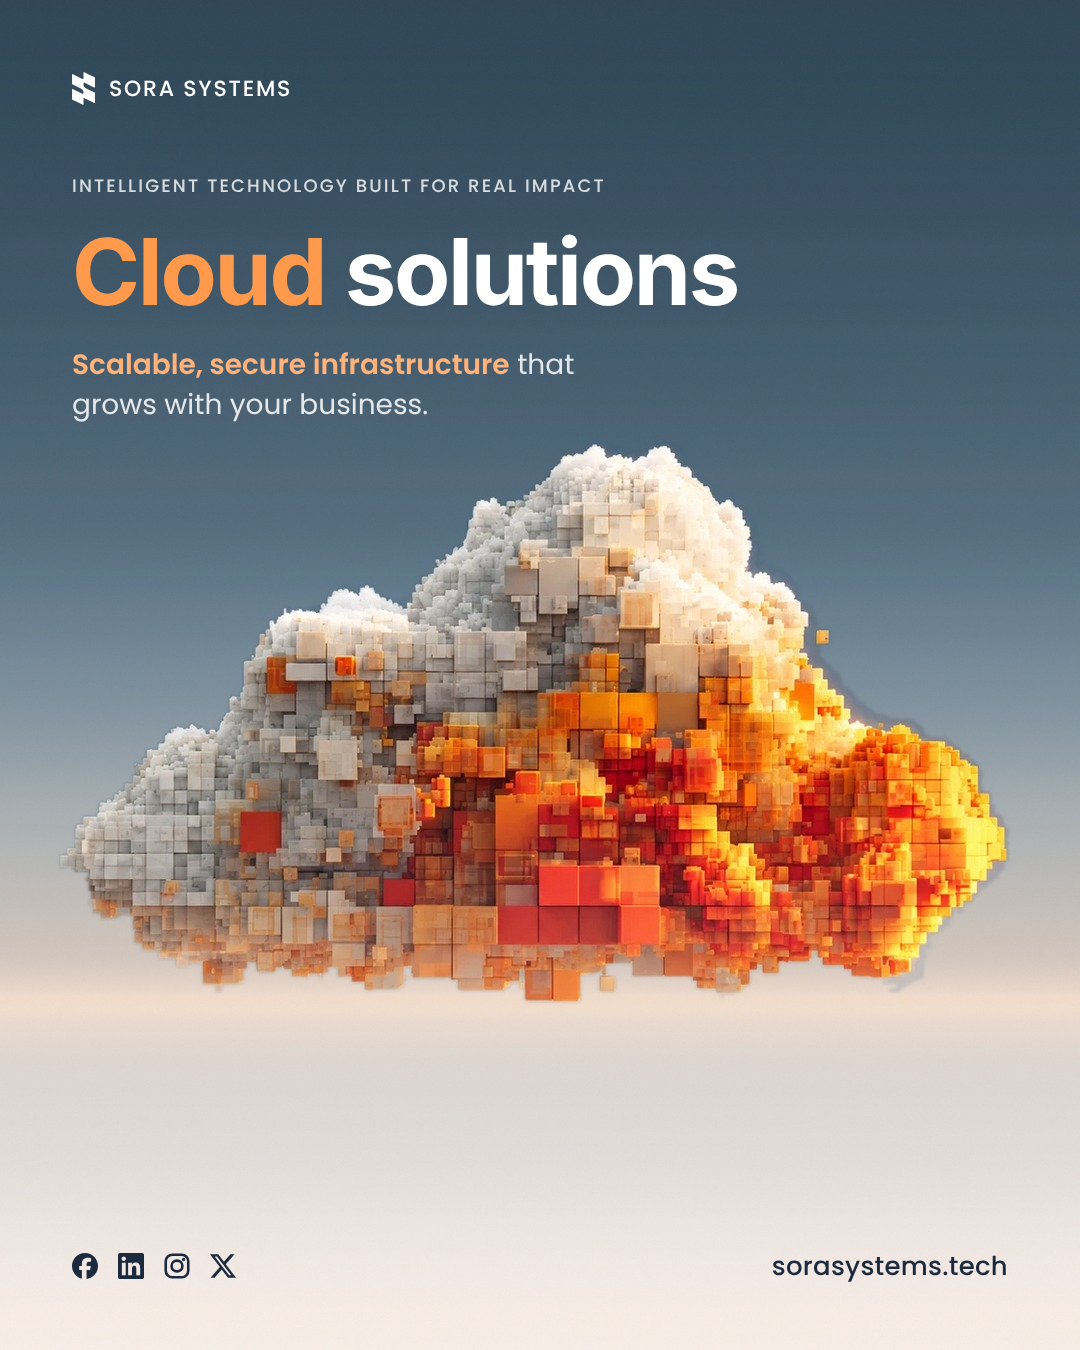
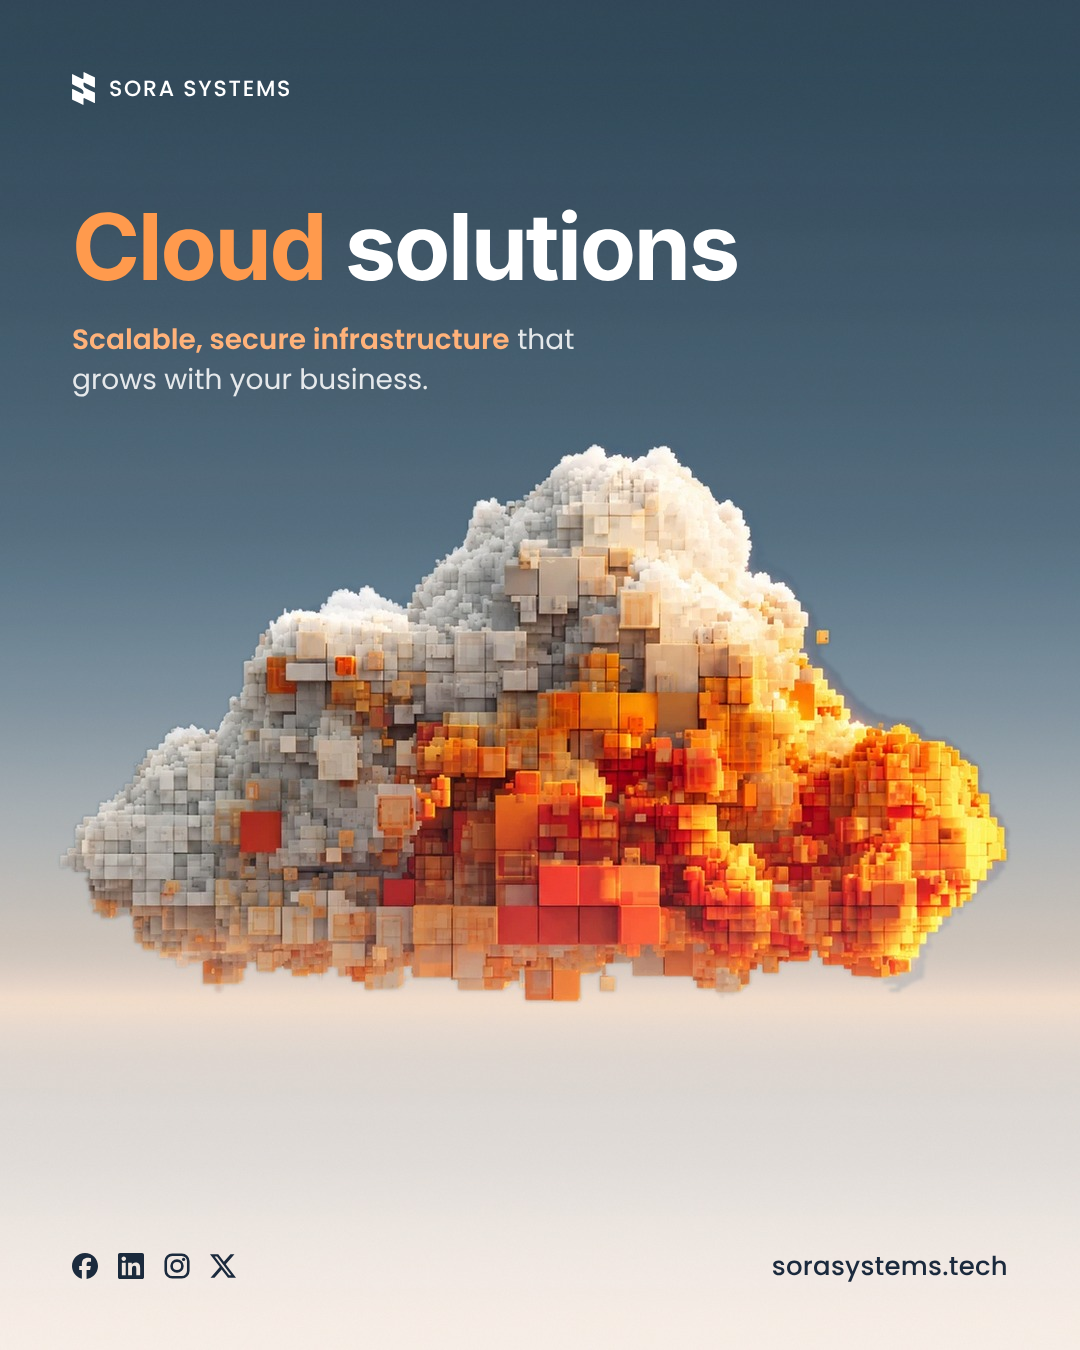
Cloud Solutions v2: remove eyebrow line
Claude-Session: https://claude.ai/code/session_018LrWno3rUgkkNcDC2TDXLt

Changed region(s): [[0.0611, 0.1244, 0.7028, 0.3111]]

diff --git a/designs/cloud-solutions-v2/sora-cloud-solutions-v2.html b/designs/cloud-solutions-v2/sora-cloud-solutions-v2.html
@@ -9,7 +9,7 @@
   .brand{position:absolute;left:72px;top:72px;display:flex;align-items:center;gap:14px}
   .brand svg{width:23px;height:33px;display:block}
   .brand span{font-family:"Poppins",sans-serif;font-weight:500;font-size:22px;letter-spacing:0.08em;color:#fff}
-  .copy{position:absolute;left:72px;top:172px;display:flex;flex-direction:column;gap:26px}
+  .copy{position:absolute;left:72px;top:200px;display:flex;flex-direction:column;gap:26px}
   .eyebrow{margin:0;font-family:"Poppins",sans-serif;font-weight:500;font-size:18px;letter-spacing:0.12em;color:rgba(255,255,255,0.8)}
   .headline{width:780px;margin:0;font-family:"Helvetica Neue",Helvetica,Arial,sans-serif;font-weight:700;font-size:92px;line-height:1.02;letter-spacing:-0.025em;color:#fff}
   .accent{color:#FF9A4D}
@@ -23,7 +23,6 @@
 <div class="post" id="sora-cloud-solutions-v2-post">
   <div class="brand"><svg viewBox="265.090 145.520 547.273 788.961" xmlns="http://www.w3.org/2000/svg"><path fill="#FFFFFF" d="M 812.363281 283.472656 L 812.363281 508.15625 C 812.363281 516.351562 803.769531 521.722656 796.410156 518.078125 L 681.371094 461.1875 L 675.542969 458.308594 L 562.761719 402.519531 C 562.753906 402.515625 562.746094 402.515625 562.738281 402.515625 C 562.730469 402.515625 562.71875 402.511719 562.710938 402.503906 C 561.292969 401.417969 559.660156 400.601562 557.917969 400.132812 C 557.910156 400.132812 557.902344 400.132812 557.894531 400.132812 C 557.886719 400.132812 557.875 400.128906 557.867188 400.128906 C 556.558594 399.71875 555.195312 399.527344 553.777344 399.527344 C 545.457031 399.527344 538.726562 406.269531 538.726562 414.601562 L 538.726562 443.640625 C 538.726562 481.675781 560.304688 516.417969 594.398438 533.277344 L 675.542969 573.40625 L 725.703125 598.207031 L 806.207031 638.027344 C 809.980469 639.890625 812.363281 643.726562 812.363281 647.945312 L 812.363281 878.113281 C 812.363281 886.304688 803.769531 891.675781 796.410156 888.03125 L 761.738281 870.878906 L 675.542969 828.265625 L 562.761719 772.476562 C 562.753906 772.472656 562.746094 772.46875 562.738281 772.46875 C 562.726562 772.46875 562.71875 772.46875 562.710938 772.464844 L 557.921875 770.09375 C 557.914062 770.089844 557.902344 770.085938 557.890625 770.085938 C 557.882812 770.085938 557.875 770.085938 557.871094 770.082031 C 556.558594 769.671875 555.195312 769.484375 553.777344 769.484375 C 545.457031 769.484375 538.726562 776.222656 538.726562 784.554688 L 538.726562 920.917969 C 538.726562 929.109375 530.132812 934.480469 522.773438 930.835938 L 401.972656 871.101562 C 401.933594 871.082031 401.90625 871.039062 401.90625 870.996094 C 401.90625 870.929688 401.855469 870.878906 401.789062 870.878906 L 401.621094 870.878906 C 401.574219 870.878906 401.53125 870.867188 401.492188 870.847656 L 271.246094 806.449219 C 267.46875 804.585938 265.089844 800.75 265.089844 796.53125 L 265.089844 560.882812 C 265.089844 552.691406 273.679688 547.320312 281.042969 550.964844 L 376.597656 598.207031 L 401.90625 610.730469 L 509.691406 664.03125 L 523.207031 670.71875 C 523.355469 670.789062 523.515625 670.828125 523.675781 670.828125 C 535.410156 670.828125 538.726562 656.273438 538.726562 644.539062 L 538.726562 633.625 C 538.726562 595.585938 517.148438 560.84375 483.054688 543.984375 L 401.90625 503.855469 L 315.65625 461.1875 L 271.246094 439.238281 C 267.46875 437.375 265.089844 433.535156 265.089844 429.316406 L 265.089844 207.371094 C 265.089844 199.179688 273.679688 193.808594 281.042969 197.453125 L 401.90625 257.21875 L 508.542969 309.945312 C 509.171875 310.246094 509.746094 310.65625 510.320312 311.070312 C 511.5 311.945312 512.8125 312.683594 514.179688 313.234375 C 514.425781 313.34375 514.671875 313.425781 514.917969 313.507812 C 515.246094 313.644531 515.628906 313.753906 515.988281 313.863281 C 516.316406 313.972656 516.671875 314.054688 517.027344 314.136719 C 518.285156 314.4375 519.597656 314.574219 520.9375 314.574219 C 530.761719 314.574219 538.726562 306.601562 538.726562 296.761719 L 538.726562 159.085938 C 538.726562 150.863281 547.316406 145.519531 554.679688 149.164062 L 631.515625 187.148438 L 675.542969 208.933594 L 806.207031 273.550781 C 809.980469 275.414062 812.363281 279.253906 812.363281 283.472656 Z M 812.363281 283.472656 "/></svg><span>SORA SYSTEMS</span></div>
   <div class="copy">
-  <p class="eyebrow">INTELLIGENT TECHNOLOGY BUILT FOR REAL IMPACT</p>
   <h1 class="headline"><span class="accent">Cloud</span> solutions</h1>
   <p class="sub"><b>Scalable, secure infrastructure</b> that grows with your business.</p>
   </div>
